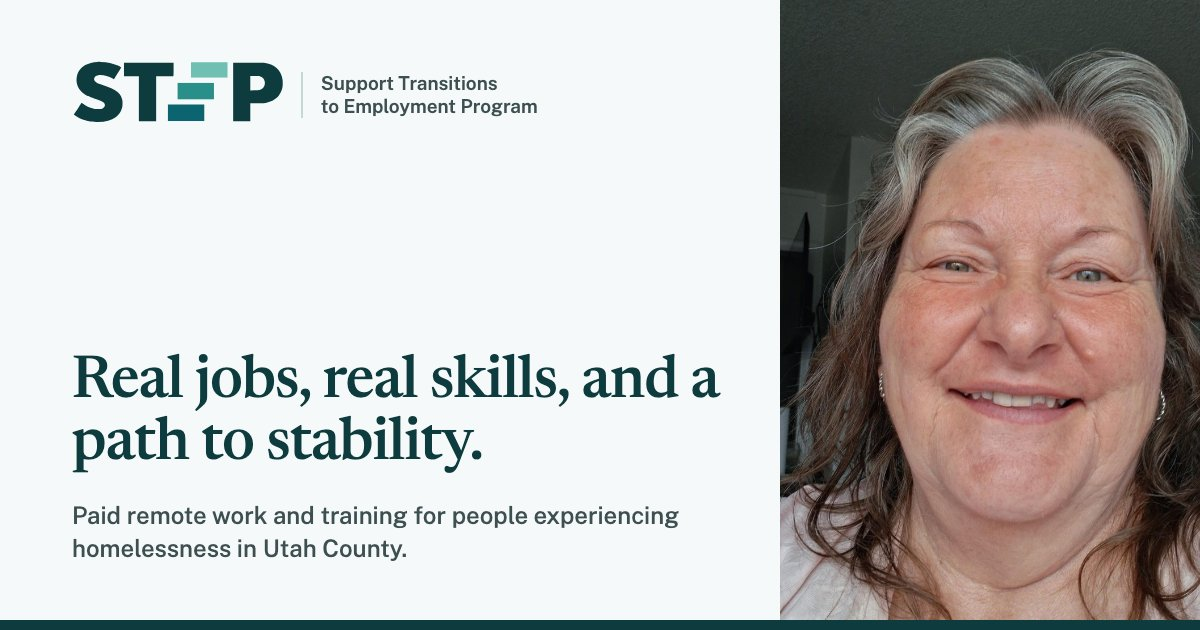
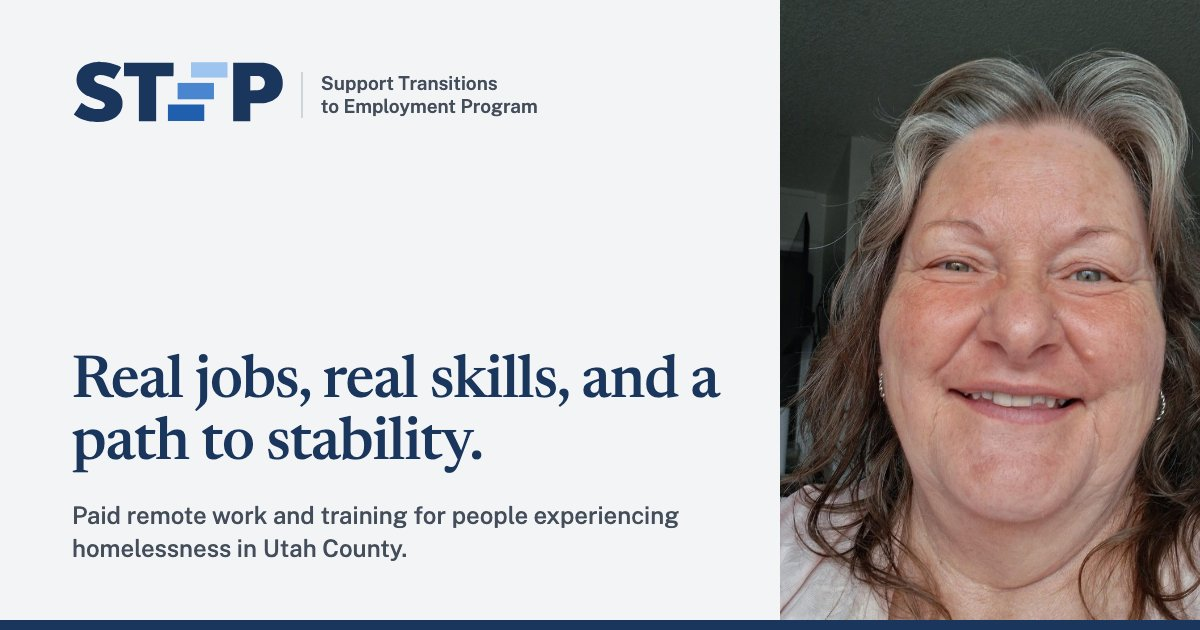
Switch to a light gray and blue theme
Light gray page and section backgrounds; deep blue header, headings, and
footer; blue buttons and links; light blue Donate on the dark header;
logo recolored to blue letters with three blue steps (dark to light),
plus white and icon versions; share image and app icons regenerated.
Contrast audit of every page: all text and controls pass WCAG AA.

diff --git a/assets/css/styles.css b/assets/css/styles.css
@@ -1,32 +1,32 @@
 /* STEP: Support Transitions to Employment Program */
 
 :root {
-  --ink: #142627;
-  --muted: #3d4f50;      /* 8.1:1 on paper */
-  --paper: #f5f9f9;
-  --paper-2: #e3f0ef;
-  --rule: #c3d9d6;
-  --rule-soft: #d6e7e5;  /* outline for white panels */
-  --forest: #0d3b3e;     /* deep teal: headings, header, dark sections */
-  --forest-2: #092b2d;
-  --green: #0b646f;      /* teal: links, buttons (6.5:1; white on it 6.9:1) */
-  --green-dark: #084f58;
-  --teal: #2a8f88;
-  --step-1: #0b646f;     /* logo bars, bottom to top */
-  --step-2: #2a8f88;
-  --step-3: #6fbfb2;
-  --step-2-text: #1f6f66; /* readable teal for small text (5.6:1) */
-  --clay: #127a77;       /* accent teal: Donate, large numerals, rules */
-  --clay-text: #0b646f;  /* small accent text on light backgrounds (6.5:1) */
-  --label-on-dark: #a8dcd6; /* small text on dark teal (8:1) */
+  --ink: #1a2230;
+  --muted: #444d5a;      /* 7.8:1 on page */
+  --paper: #f3f4f6;
+  --paper-2: #e7e9ed;
+  --rule: #cfd4db;
+  --rule-soft: #e1e4e9;  /* outline for white panels */
+  --forest: #1b365d;     /* deep blue: headings, header, dark sections */
+  --forest-2: #142a49;
+  --green: #1f5fae;      /* blue: links, buttons (5.8:1; white on it 6.4:1) */
+  --green-dark: #184c8c;
+  --teal: #4a86cf;
+  --step-1: #1f5fae;     /* logo bars, bottom to top */
+  --step-2: #4a86cf;
+  --step-3: #9ec5f0;
+  --step-2-text: #1f5fae; /* readable blue for small text (5.2:1+) */
+  --clay: #2f6fd0;       /* accent blue: large numerals, rules */
+  --clay-text: #1f5fae;  /* small accent text on light backgrounds (5.2:1+) */
+  --label-on-dark: #b9d3f2; /* small text on dark blue (7.9:1) */
 
   --serif: "Newsreader", Georgia, "Times New Roman", serif;
   --sans: "Public Sans", system-ui, -apple-system, "Segoe UI", Roboto, sans-serif;
 
   --radius: 6px;
   --radius-lg: 14px;
-  --shadow-sm: 0 1px 2px rgba(13, 59, 62, 0.06), 0 4px 14px rgba(13, 59, 62, 0.06);
-  --shadow: 0 2px 4px rgba(13, 59, 62, 0.05), 0 14px 36px rgba(13, 59, 62, 0.12);
+  --shadow-sm: 0 1px 2px rgba(27, 54, 93, 0.06), 0 4px 14px rgba(27, 54, 93, 0.06);
+  --shadow: 0 2px 4px rgba(27, 54, 93, 0.05), 0 14px 36px rgba(27, 54, 93, 0.12);
   --ease: cubic-bezier(0.22, 0.61, 0.36, 1);
   --container: 1160px;
   --gutter: 24px;
@@ -94,9 +94,9 @@ strong { font-weight: 600; }
   transition: background 0.2s, color 0.2s;
 }
 .btn--primary { background: var(--green); color: #fff; }
-/* Donate sits on the dark header: light teal with dark text so it stands out (5.7:1) */
-.btn--donate { background: #6fbfb2; color: var(--forest); }
-.btn--donate:hover { background: #8fd0c5; color: var(--forest); }
+/* Donate sits on the dark header: light blue with dark text so it stands out (6.8:1) */
+.btn--donate { background: #9ec5f0; color: var(--forest); }
+.btn--donate:hover { background: #b8d6f5; color: var(--forest); }
 .btn--primary:hover { background: var(--green-dark); color: #fff; }
 .btn--light { background: #fff; color: var(--forest); }
 .btn--light:hover { background: var(--paper-2); color: var(--forest); }
@@ -114,16 +114,16 @@ strong { font-weight: 600; }
   background: var(--forest); color: #fff;
   transition: box-shadow 0.25s;
 }
-.site-header.is-scrolled { box-shadow: 0 6px 20px rgba(13, 59, 62, 0.25); }
+.site-header.is-scrolled { box-shadow: 0 6px 20px rgba(27, 54, 93, 0.25); }
 .site-header__inner { position: relative; display: flex; align-items: center; gap: 28px; min-height: var(--header-h); }
 .brand { display: flex; align-items: center; gap: 14px; color: #fff; text-decoration: none; }
 .brand__logo { width: auto; height: 32px; }
-.brand__full { font-size: 0.74rem; font-weight: 600; color: #a9c9c6; line-height: 1.25; padding-left: 14px; border-left: 1px solid rgba(255, 255, 255, 0.25); }
+.brand__full { font-size: 0.74rem; font-weight: 600; color: #b4c6dd; line-height: 1.25; padding-left: 14px; border-left: 1px solid rgba(255, 255, 255, 0.25); }
 .brand:hover { color: #fff; }
 
 .nav { display: flex; align-items: center; gap: 28px; margin-left: auto; }
 .nav a:not(.btn) {
-  color: #e3f0ef; text-decoration: none; font-weight: 500; font-size: 0.98rem; white-space: nowrap;
+  color: #e8eef7; text-decoration: none; font-weight: 500; font-size: 0.98rem; white-space: nowrap;
   padding: 6px 0; border-bottom: 2px solid transparent; transition: border-color 0.2s, color 0.2s;
 }
 .nav a:not(.btn):hover { border-bottom-color: rgba(255, 255, 255, 0.4); color: #fff; }
@@ -161,7 +161,7 @@ strong { font-weight: 600; }
     display: none; position: absolute; top: 100%; left: 0; right: 0; margin: 0;
     flex-direction: column; align-items: stretch; gap: 0;
     background: var(--forest); border-top: 1px solid rgba(255, 255, 255, 0.15);
-    box-shadow: 0 16px 32px rgba(13, 59, 62, 0.3);
+    box-shadow: 0 16px 32px rgba(27, 54, 93, 0.3);
     padding: 8px var(--gutter) 20px;
   }
   .nav.is-open { display: flex; animation: menu-down 0.16s var(--ease); }
@@ -307,7 +307,7 @@ strong { font-weight: 600; }
 
 
 /* ---------- Support band ---------- */
-.support { color: #e3eff0; padding: 72px 0; background: var(--green); }
+.support { color: #e6eef8; padding: 72px 0; background: var(--green); }
 .support__inner { display: flex; flex-wrap: wrap; align-items: center; justify-content: space-between; gap: 28px 48px; }
 .support h2 { color: #fff; margin-bottom: 10px; }
 .support p { margin: 0; max-width: 36em; }
@@ -400,7 +400,7 @@ strong { font-weight: 600; }
 .field label { display: block; font-weight: 600; margin-bottom: 6px; }
 .field input, .field select, .field textarea {
   width: 100%; font: inherit; color: var(--ink); background: #fff;
-  border: 1px solid #7d8f8e; border-radius: var(--radius); padding: 12px 14px;
+  border: 1px solid #7f8794; border-radius: var(--radius); padding: 12px 14px;
 }
 .field textarea { resize: vertical; min-height: 160px; }
 .field input:focus, .field select:focus, .field textarea:focus { outline: 2px solid var(--green); outline-offset: 0; border-color: var(--green); }
@@ -428,7 +428,7 @@ strong { font-weight: 600; }
 .not-found__links { list-style: none; padding: 0; margin: 32px 0 0; display: grid; gap: 12px; }
 
 /* ---------- Footer ---------- */
-.site-footer { background: var(--forest-2); color: #c5dcda; padding: 64px 0 28px; font-size: 0.95rem; }
+.site-footer { background: var(--forest-2); color: #c3d1e3; padding: 64px 0 28px; font-size: 0.95rem; }
 .site-footer a { color: #fff; text-decoration: none; }
 .site-footer a:hover { text-decoration: underline; color: #fff; }
 .footer-grid { display: grid; grid-template-columns: 1.6fr 1fr 1fr 1.4fr; gap: 40px; }
@@ -442,7 +442,7 @@ strong { font-weight: 600; }
 .footer-facebook svg { width: 18px; height: 18px; fill: currentColor; }
 .footer-bottom {
   display: flex; flex-wrap: wrap; justify-content: space-between; gap: 8px 32px;
-  margin-top: 48px; padding-top: 20px; border-top: 1px solid rgba(255, 255, 255, 0.14); font-size: 0.86rem; color: #c5dcda;
+  margin-top: 48px; padding-top: 20px; border-top: 1px solid rgba(255, 255, 255, 0.14); font-size: 0.86rem; color: #c3d1e3;
 }
 .footer-bottom p { margin: 0; }
 @media (max-width: 1000px) { .footer-grid { grid-template-columns: 1fr 1fr 1fr; } .footer-about { grid-column: 1 / -1; } }
@@ -537,7 +537,7 @@ strong { font-weight: 600; }
 .stair__bar {
   height: 76px; border-radius: 3px; margin-bottom: 22px; padding: 0 22px;
   display: flex; align-items: center; color: #fff; font: 700 2.6rem/1 var(--sans);
-  box-shadow: 0 10px 24px rgba(13, 59, 62, 0.14);
+  box-shadow: 0 10px 24px rgba(27, 54, 93, 0.14);
 }
 .stair--1 .stair__bar { background: var(--step-1); }
 .stair--2 .stair__bar { background: var(--step-2); }

diff --git a/src/layout.html b/src/layout.html
@@ -16,7 +16,7 @@
   <meta property="og:image:height" content="630">
   <meta property="og:image:alt" content="{{ og_image_alt }}">
   <meta name="twitter:card" content="summary_large_image">
-  <meta name="theme-color" content="#0d3b3e">
+  <meta name="theme-color" content="#1b365d">
   {{ robots }}
   <link rel="icon" href="{{ base }}assets/img/logo-mark.svg" type="image/svg+xml">
   <link rel="icon" href="{{ base }}assets/img/favicon-32.png" sizes="32x32" type="image/png">
